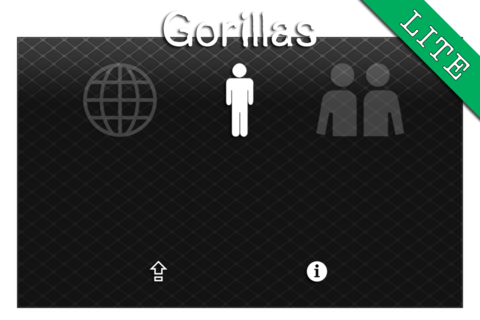
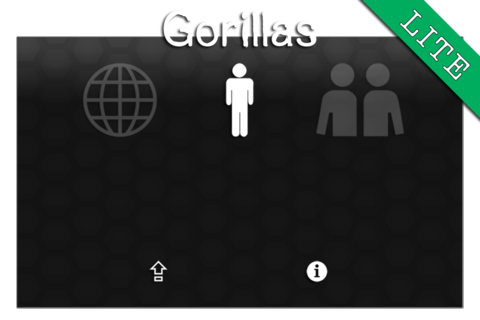
Fixes to do with sizing of elements.
[FIXED]     Pixel/point fixes.
[FIXED]     Sizing of holes/explosions/fires.
[FIXED]     Attach the skyLayer to the gameLayer to avoid sizing
            problems and weird draw artifacts.
[FIXED]     convertImages: Properly test time stamps.
[UPDATED]   SD version of menu backdrops.

diff --git a/Gorillas/ExplosionsLayer.m b/Gorillas/ExplosionsLayer.m
@@ -56,7 +56,7 @@ static float flameRadius;
     positionsPx     = nil;
 
     self.shaderProgram = [[CCShaderCache sharedShaderCache] programForKey:kCCShader_PositionColor];
-    self.scale      = GorillasModelScale(1, [[CCTextureCache sharedTextureCache] addImage:@"hole.png"].contentSizeInPixels.width);
+    self.scale      = GorillasModelScale(1, [[CCTextureCache sharedTextureCache] addImage:@"hole.png"].contentSize.width);
     
     [self schedule:@selector(gc:) interval:0.5f];
     [self schedule:@selector(step:)];
@@ -98,7 +98,7 @@ static float flameRadius;
 
 -(CGFloat) size {
     
-    return 32;
+    return [[CCTextureCache sharedTextureCache] addImage:@"hole.png"].contentSize.width / 4;
 }
 
 
@@ -114,6 +114,7 @@ static float flameRadius;
     NSUInteger explosionParticles = (NSUInteger)(PearlGameRandomFor(GorillasGameRandomExplosions) % 50 + 300);
     if(heavy)
         explosionParticles += 400;
+    explosionParticles *= [self scale];
 
     CCParticleSystem *explosion = [[CCParticleSun alloc] initWithTotalParticles:explosionParticles];
     [[GorillasAppDelegate get].gameLayer.windLayer registerSystem:explosion affectAngle:NO];
@@ -121,8 +122,8 @@ static float flameRadius;
     explosion.positionType      = kCCPositionTypeGrouped;
     explosion.position          = CGPointZero;
     explosion.sourcePosition    = [self convertToNodeSpace:worldPos];
-    explosion.startSize         = (heavy? 20: 15) * self.scale;
-    explosion.startSizeVar      = 5 * self.scale;
+    explosion.startSize         = (heavy? 20: 15) / self.scale;
+    explosion.startSizeVar      = 5 / self.scale;
     explosion.speed             = 10;
     explosion.posVar            = ccp([self size] * 0.3f,
                                       [self size] * 0.3f);
@@ -225,14 +226,14 @@ static float flameRadius;
         
         for (NSUInteger type = 0; type < flameVariantion * 2; ++type) {
             BOOL typeIsHeavy = !(type < flameVariantion);
-            NSUInteger flameParticles = typeIsHeavy? 80: 60;
+            NSUInteger flameParticles = (NSUInteger)((typeIsHeavy? 120: 90) * [self scale]);
             
             CCParticleSystem *flame   = [[CCParticleFire alloc] initWithTotalParticles:flameParticles];
             
             flame.position          = CGPointZero;
             //flames.angleVar       = 90;
-            flame.startSize         = typeIsHeavy? 10: 5;
-            flame.startSizeVar      = 5;
+            flame.startSize         = (typeIsHeavy? 5: 3) / [self scale];
+            flame.startSizeVar      = 3 / [self scale];
             flame.posVar            = ccp(radius, radius);
             flame.speed             = 8;
             flame.speedVar          = 10;

diff --git a/Gorillas/StarLayer.m b/Gorillas/StarLayer.m
@@ -60,7 +60,6 @@
     if (starCount == [[GorillasConfig get].starAmount intValue])
         return;
 
-    CGRect fieldPx      = [[GorillasAppDelegate get].gameLayer.cityLayer fieldInSpaceOf:self]; //CC_RECT_POINTS_TO_PIXELS([[GorillasAppDelegate get].gameLayer.cityLayer fieldInSpaceOf:self]);
     starCount           = [[GorillasConfig get].starAmount intValue];
     ccColor4B starColor = ccc4l([[GorillasConfig get].starColor unsignedLongValue]);
     starColor.r         *= depth;
@@ -71,14 +70,14 @@
     free(starVertices);
     starVertices = malloc(sizeof(glPoint) * (unsigned)starCount);
     
+    CGSize winSize      = [CCDirector sharedDirector].winSize;
     for (NSInteger s = 0; s < starCount; ++s) {
-        starVertices[s].p   = ccp(PearlGameRandomFor(GorillasGameRandomStars) % (long) fieldPx.size.width + fieldPx.origin.x,
-                                  PearlGameRandomFor(GorillasGameRandomStars) % (long) fieldPx.size.height + fieldPx.origin.y);
+        starVertices[s].p   = ccp(PearlGameRandomFor(GorillasGameRandomStars) % (int)winSize.width,
+                                  PearlGameRandomFor(GorillasGameRandomStars) % (int)winSize.height);
         starVertices[s].c   = starColor;
         starVertices[s].s   = starSize;
     }
     
-    // Push our window data into the VBO.
     glDeleteBuffers(1, &starVertexBuffer);
     glGenBuffers(1, &starVertexBuffer);
     glBindBuffer(GL_ARRAY_BUFFER, starVertexBuffer);
@@ -89,15 +88,15 @@
 
 -(void) update:(ccTime)dt {
 
-    CGRect fieldPx      = [[GorillasAppDelegate get].gameLayer.cityLayer fieldInSpaceOf:self]; //CC_RECT_POINTS_TO_PIXELS([[GorillasAppDelegate get].gameLayer.cityLayer fieldInSpaceOf:self]);
+    CGSize winSize      = [CCDirector sharedDirector].winSize;
     NSInteger speed     = [[GorillasConfig get].starSpeed integerValue];
     
-    for (NSInteger s = 0; s < starCount; ++s)
-        if (starVertices[s].p.x < fieldPx.origin.x)
-            starVertices[s].p.x = fieldPx.size.width + fieldPx.origin.x
-                                - ((int)(10000 * speed * dt) % PearlGameRandomFor(GorillasGameRandomStars)) / 10000.0f;
-        else
-            starVertices[s].p.x -= dt * speed;
+    for (NSInteger s = 0; s < starCount; ++s) {
+        starVertices[s].p.x -= dt * speed;
+        
+        if (starVertices[s].p.x < 0)
+            starVertices[s].p.x = winSize.width + PearlGameRandomFor(GorillasGameRandomStars) % (int)winSize.width / 7;
+    }
 
     glBindBuffer(GL_ARRAY_BUFFER, starVertexBuffer);
     glBufferData(GL_ARRAY_BUFFER, (signed)sizeof(glPoint) * starCount, starVertices, GL_DYNAMIC_DRAW);

diff --git a/Gorillas/CityLayer.m b/Gorillas/CityLayer.m
@@ -185,8 +185,6 @@
     CC_PROFILER_START_CATEGORY(kCCProfilerCategorySprite, @"CityLayer - draw");
    	CC_NODE_DRAW_SETUP();
 
-    CGPoint winSizePx = ccpFromSize([CCDirector sharedDirector].winSizeInPixels);
-    
 #if DEBUG_COLLISION
     CGSize winSize = [CCDirector sharedDirector].winSize;
     CGRect field = [self fieldInSpaceOf:self];
@@ -221,13 +219,15 @@
 #endif
     
     if ([[GorillasAppDelegate get].gameLayer isEnabled:GorillasFeatureCheat]) {
+        CGPoint winSize = ccpFromSize([CCDirector sharedDirector].winSize);
+        
         for(NSUInteger i = 0; i < [[GorillasAppDelegate get].gameLayer.gorillas count]; ++i) {
             GorillaLayer *gorilla = [[GorillasAppDelegate get].gameLayer.gorillas objectAtIndex:i];
             if(![gorilla alive])
                 continue;
             
             CGPoint fromPx = gorilla.position; // ccpMult(gorilla.position, CC_CONTENT_SCALE_FACTOR()); /* pt to px */;
-            CGPoint toPx   = ccpAdd(fromPx, ccpCompMult(throwHistory[i], winSizePx));
+            CGPoint toPx   = ccpAdd(fromPx, ccpCompMult(throwHistory[i], winSize));
             
             if(!CGPointEqualToPoint(toPx, CGPointZero)) {
                 ccColor4B color = ccc4l([[GorillasConfig get].windowColorOff unsignedLongValue] & 0xffffff33UL);
@@ -560,8 +560,9 @@
     for(NSUInteger i = 0; i < [gorillas count]; ++i) {
         Building building = buildings[0].buildings[[(NSNumber *) [gorillaIndexes objectAtIndex:i] unsignedIntegerValue]];
         GorillaLayer *gorilla = [gorillas objectAtIndex:i];
+        CGSize gorillaSize = CGSizeMake(gorilla.contentSize.width * gorilla.scale, gorilla.contentSize.height * gorilla.scale);
         
-        gorilla.position = ccp(building.x + building.size.width / 2, building.size.height + gorilla.contentSize.height / 2);
+        gorilla.position = ccp(building.x + building.size.width / 2, building.size.height + gorillaSize.height / 2);
         [gorilla runAction:[CCFadeIn actionWithDuration:1]];
         [nonParallaxLayer addChild:gorilla z:3];
     }

diff --git a/Gorillas/HolesLayer.m b/Gorillas/HolesLayer.m
@@ -37,7 +37,7 @@
     holes       = nil;
     holeCount   = 0;
     
-    self.scale  = GorillasModelScale(1, texture.contentSizeInPixels.width);
+    self.scale  = GorillasModelScale(1.2f, texture.contentSize.width);
     self.shaderProgram = [PearlGLShaders pointSpriteShader];
 
     glGenBuffers(1, &holeVertexBuffer);
@@ -49,7 +49,7 @@
 -(BOOL)isHoleAtWorld: (CGPoint)worldPos {
     
     CGPoint posPx = [self convertToNodeSpace:worldPos]; //ccpMult([self convertToNodeSpace:worldPos], CC_CONTENT_SCALE_FACTOR());
-    CGFloat d = powf(texture.pixelsWide / 5, 2) * self.scale;
+    CGFloat d = powf(texture.contentSize.width / 4, 2);
     for(NSUInteger h = 0; h < holeCount; ++h) {
         CGFloat x = holes[h].p.x - posPx.x, y = holes[h].p.y - posPx.y;
         if ((powf(x, 2) + powf(y, 2)) < d)
@@ -57,7 +57,7 @@
     }
     
     return NO;
-}
+} 
 
 
 -(void) addHoleAtWorld:(CGPoint)worldPos {
@@ -65,7 +65,7 @@
     holes = realloc(holes, sizeof(glPoint) * ++holeCount);
     holes[holeCount - 1].p = [self convertToNodeSpace:worldPos]; //ccpMult([self convertToNodeSpace:worldPos], CC_CONTENT_SCALE_FACTOR());
     holes[holeCount - 1].c = ccc4l(0xffffffffUL);
-    holes[holeCount - 1].s = texture.pixelsWide * self.scale; // Scale seems to not affect pointsize.
+    holes[holeCount - 1].s = texture.contentSize.width * self.scale * CC_CONTENT_SCALE_FACTOR(); // Scale seems to not affect pointsize.
 
 	glBindBuffer(GL_ARRAY_BUFFER, holeVertexBuffer);
 	glBufferData(GL_ARRAY_BUFFER, (GLsizei)(sizeof(glPoint) * holeCount), holes, GL_DYNAMIC_DRAW);

diff --git a/Gorillas/SkyLayer.m b/Gorillas/SkyLayer.m
@@ -69,10 +69,7 @@
 
     skyColor = ccc4l([[GorillasConfig get].skyColor unsignedLongValue]);
 
-    CGRect field = [[GorillasAppDelegate get].gameLayer.cityLayer fieldInSpaceOf:self];
-    fromPx  = ccpMult(ccp(field.origin.x, field.origin.y), 1); //CC_CONTENT_SCALE_FACTOR());
-    toPx    = ccpMult(ccp(field.origin.x + field.size.width, field.origin.y + field.size.height), 1); //CC_CONTENT_SCALE_FACTOR());
-
+    self.contentSize = [CCDirector sharedDirector].winSize;
     for(StarLayer *starLayer in stars)
         [starLayer reset];
 }
@@ -86,10 +83,10 @@
    	CC_NODE_DRAW_SETUP();
 
     Vertex vertices[4] = {
-            { .p = { fromPx.x, fromPx.y }, .c = skyColor },
-            { .p = { toPx.x, fromPx.y }, .c = skyColor },
-            { .p = { fromPx.x, toPx.y }, .c = ccc4(0x00, 0x00, 0x00, 0xff) },
-            { .p = { toPx.x, toPx.y }, .c = ccc4(0x00, 0x00, 0x00, 0xff) },
+            { .p = { 0,                         0 },                        .c = skyColor },
+            { .p = { self.contentSize.width,    0 },                        .c = skyColor },
+            { .p = { 0,                         self.contentSize.height },  .c = ccc4(0x00, 0x00, 0x00, 0xff) },
+            { .p = { self.contentSize.width,    self.contentSize.height },  .c = ccc4(0x00, 0x00, 0x00, 0xff) },
     };
     PearlGLDraw(GL_TRIANGLE_STRIP, vertices, 4);
 

diff --git a/Gorillas/GorillasConfig.h b/Gorillas/GorillasConfig.h
@@ -109,10 +109,10 @@
 /**
  * Utility for scaling Gorillas models.
  */
-static inline float GorillasModelScale(const float amountPerBuildingWidth, const float modelPixelsWide) {
+static inline float GorillasModelScale(const float amountPerBuildingWidth, const float modelWide) {
     
-    dbg(@"winWidthPx: %f, buildings: %f, amountPerBuildingWidth: %f, modelPixelsWide: %f => %f", [CCDirector sharedDirector].winSizeInPixels.width, [[GorillasConfig get].buildingAmount floatValue], amountPerBuildingWidth, modelPixelsWide, [CCDirector sharedDirector].winSizeInPixels.width / [[GorillasConfig get].buildingAmount floatValue]
-        / amountPerBuildingWidth / modelPixelsWide);
-    return [CCDirector sharedDirector].winSizeInPixels.width / [[GorillasConfig get].buildingAmount floatValue]
-            / amountPerBuildingWidth / modelPixelsWide;
+    dbg(@"winWidthPx: %f, buildings: %f, amountPerBuildingWidth: %f, modelWide: %f => %f", [CCDirector sharedDirector].winSize.width, [[GorillasConfig get].buildingAmount floatValue], amountPerBuildingWidth, modelWide, [CCDirector sharedDirector].winSize.width / [[GorillasConfig get].buildingAmount floatValue]
+        / amountPerBuildingWidth / modelWide);
+    return [CCDirector sharedDirector].winSize.width / [[GorillasConfig get].buildingAmount floatValue]
+            / amountPerBuildingWidth / modelWide;
 }

diff --git a/Gorillas/GorillaLayer.m b/Gorillas/GorillaLayer.m
@@ -132,7 +132,7 @@ static NSUInteger nextTeamIndex, nextGlobalIndex;
     [self stopAllActions];
     
     self.bobber.position = ccp(self.contentSize.width / 2, self.contentSize.height + self.bobber.contentSize.height / 2);
-    self.scale      = GorillasModelScale(2, self.bobber.texture.contentSizeInPixels.width);
+    self.scale      = GorillasModelScale(2, self.bobber.texture.contentSize.width);
     self.active     = NO;
     self.ready      = NO;
     self.lives      = self.initialLives;
@@ -416,10 +416,7 @@ static NSUInteger nextTeamIndex, nextGlobalIndex;
     if(![self alive])
         return NO;
     
-    return  pos.x >= self.position.x - self.contentSize.width  / 2 &&
-    pos.y >= self.position.y - self.contentSize.height / 2 &&
-    pos.x <= self.position.x + self.contentSize.width  / 2 &&
-    pos.y <= self.position.y + self.contentSize.height / 2;
+    return ABS(pos.x - self.position.x) <= self.contentSize.width / 3 && ABS(pos.y - self.position.y) <= self.contentSize.height / 3;
 }
 
 

diff --git a/Gorillas/GameLayer.m b/Gorillas/GameLayer.m
@@ -480,16 +480,16 @@
     skyLayer                = [[SkyLayer alloc] init];
     CCSprite *light = [CCSprite spriteWithFile:@"fire.png"];
     light.position = ccp(240, -500);
-    light.scale = 100;
+    light.scale = 150;
     light.color = ccc3(0xff, 0xff, 0);
     light.opacity = 0x55;
     panningLayer            = [[PanningLayer alloc] init];
     panningLayer.position   = CGPointZero;
     [panningLayer addChild:[InteractionLayer node] z:1];
     [panningLayer addChild:cityLayer z:0];
-    [panningLayer addChild:skyLayer z:-5];
-//    [panningLayer addChild:light z:-1]; FIXME, city lights
+    [panningLayer addChild:light z:-1];
     [self addChild:panningLayer z:0];
+    [self addChild:skyLayer z:-5];
 
     windLayer               = [[WindLayer alloc] init];
     windLayer.position      = ccp(self.contentSize.width / 2, self.contentSize.height - 15);

diff --git a/Gorillas/GorillasConfig.m b/Gorillas/GorillasConfig.m
@@ -116,7 +116,7 @@
 
                        [NSNumber numberWithUnsignedLong:[theme skyColor]],         NSStringFromSelector(@selector(skyColor)),
                        [NSNumber numberWithUnsignedLong:[theme starColor]],        NSStringFromSelector(@selector(starColor)),
-                       [NSNumber numberWithInteger:    10],                        NSStringFromSelector(@selector(starSpeed)),
+                       [NSNumber numberWithInteger:     2],                        NSStringFromSelector(@selector(starSpeed)),
                        [NSNumber numberWithUnsignedInt:[theme starAmount]],        NSStringFromSelector(@selector(starAmount)),
 
                        [NSNumber numberWithInteger:    3],                         NSStringFromSelector(@selector(lives)),

diff --git a/Gorillas/SkyLayer.h b/Gorillas/SkyLayer.h
@@ -30,8 +30,6 @@
 @private
     ccColor4B               skyColor;
 
-    CGPoint                 fromPx, toPx;
-    
     NSMutableArray          *stars;
 }
 
